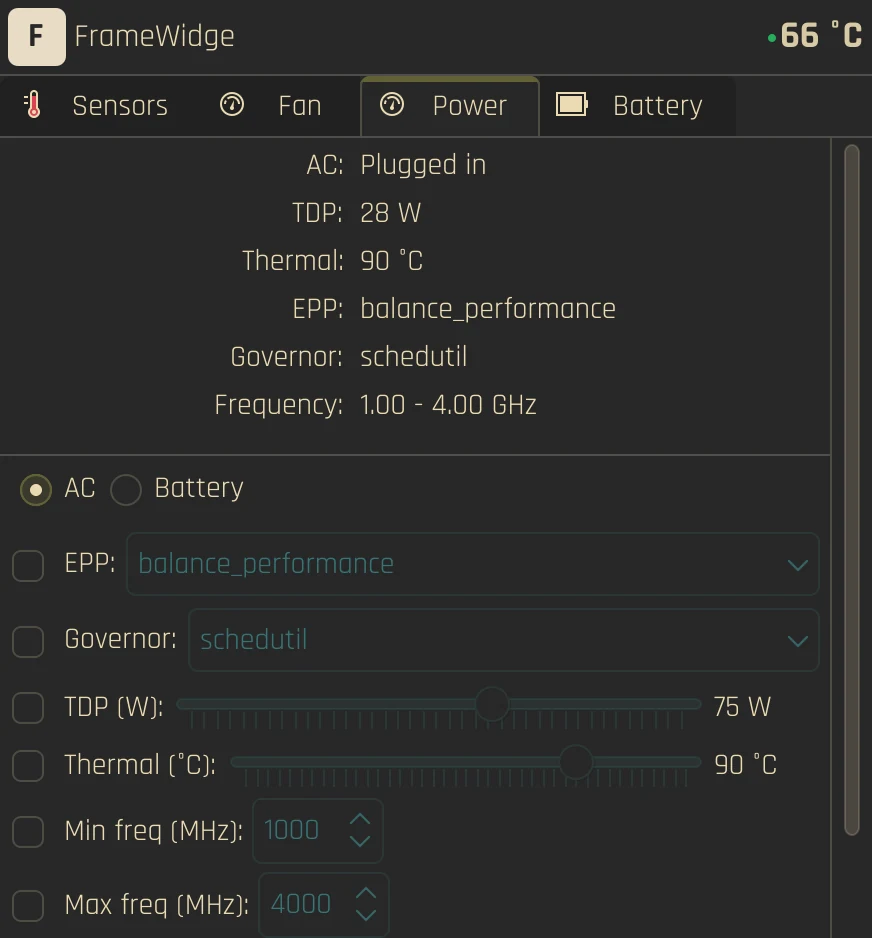
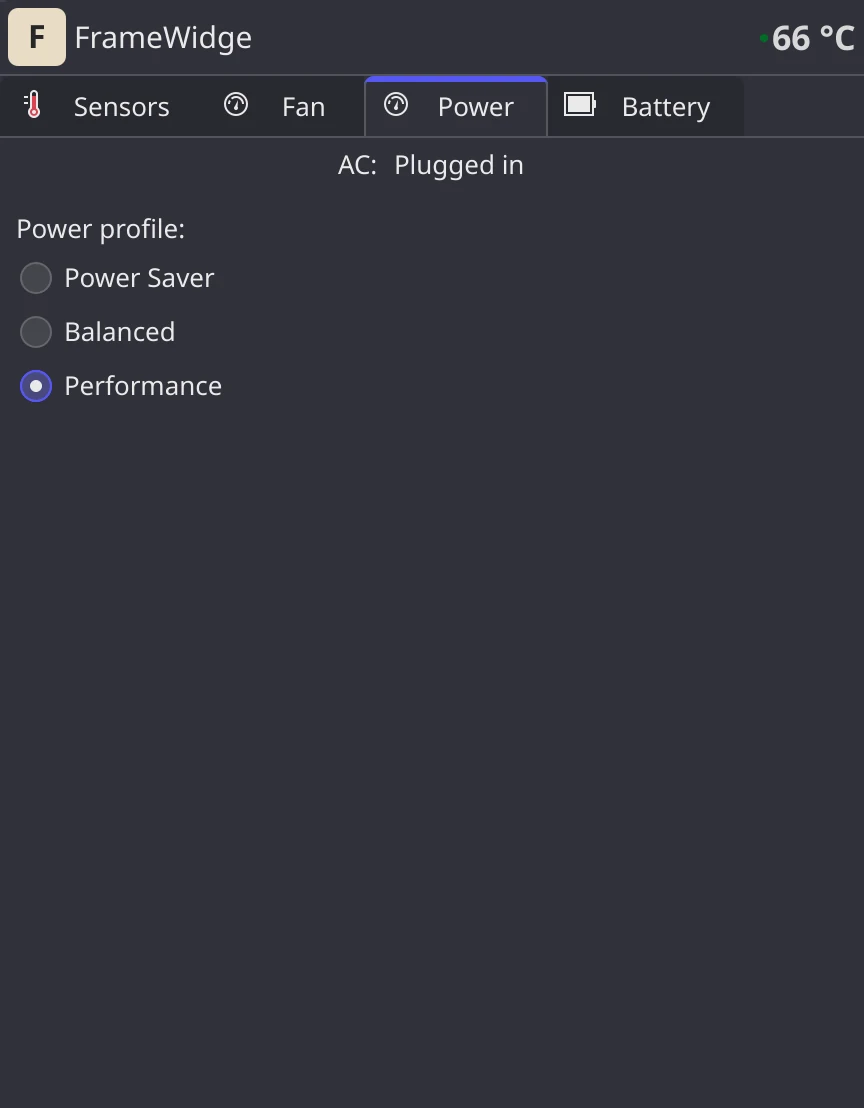
Release 1.3
- Version 1.3 in metadata.json (the service is 1.3.0 already),
  CHANGELOG section 1.3, landing page footer and download link
  (latest release instead of 1.0).
- Screenshots of the release (the Power tab changed).
- The release workflow builds the widget package too, with
  scripts/package.sh: it stops on a version that does not match the
  tag and on demo code in the package. Until 1.2 the .plasmoid was
  attached by hand; artifacts come from GitHub Actions only. Release
  notes are the tag's CHANGELOG section.

diff --git a/docs/index.html b/docs/index.html
@@ -43,7 +43,7 @@
     <div class="install-card">
       <label><span lang="en">Install with one command</span><span lang="de">Installation mit einem Befehl</span></label><div class="cmd-row"><div class="cmd-box">curl -fsSL https://raw.githubusercontent.com/shrippen/FrameWidge/main/install.sh | bash</div><button class="copy-btn" type="button" title="Copy" aria-label="Copy"><svg viewBox="0 0 24 24" width="18" height="18" fill="none" stroke="currentColor" stroke-width="2" stroke-linecap="round" stroke-linejoin="round"><rect x="9" y="9" width="13" height="13" rx="2"/><path d="M5 15H4a2 2 0 01-2-2V4a2 2 0 012-2h9a2 2 0 012 2v1"/></svg></button></div>
       <p class="install-note" lang="en">Installs the FrameWidge service <code>framewidged</code> (requires <code>sudo</code>) and the Plasma widget via <code>kpackagetool6</code>. Then add <strong>FrameWidge</strong> from the widget picker.</p><p class="install-note" lang="de">Installiert den FrameWidge-Dienst <code>framewidged</code> (braucht <code>sudo</code>) und das Plasma-Widget per <code>kpackagetool6</code>. Danach <strong>FrameWidge</strong> im Widget-Auswahldialog hinzufügen.</p>
-      <div class="install-links"><a class="btn btn-primary" href="https://github.com/shrippen/FrameWidge/releases/tag/1.0">Download</a><a class="btn btn-ghost" href="https://github.com/shrippen/FrameWidge">GitHub</a><a class="btn btn-ghost" href="https://github.com/ozturkkl/framework-control"><span lang="en">Original Project</span><span lang="de">Originalprojekt</span></a></div>
+      <div class="install-links"><a class="btn btn-primary" href="https://github.com/shrippen/FrameWidge/releases/latest">Download</a><a class="btn btn-ghost" href="https://github.com/shrippen/FrameWidge">GitHub</a><a class="btn btn-ghost" href="https://github.com/ozturkkl/framework-control"><span lang="en">Original Project</span><span lang="de">Originalprojekt</span></a></div>
     </div>
     <div class="hero-shot"><img lang="en" src="shots/fan-en.webp" alt="FrameWidge Fan tab with the fan curve editor"><img lang="de" src="shots/fan-de.webp" alt="FrameWidge Fan tab with the fan curve editor"></div>
   </div>
@@ -126,7 +126,7 @@ kpackagetool6 -t Plasma/Applet -r org.kde.plasma.framewidge</div></section>
       <div><h4><span lang="en">Source</span><span lang="de">Quelltext</span></h4><a href="https://github.com/shrippen/FrameWidge">GitHub</a><a href="https://github.com/shrippen/FrameWidge/issues">Issues</a><a href="https://github.com/shrippen/FrameWidge/releases">Releases</a><a href="https://github.com/ozturkkl/framework-control"><span lang="en">Original project</span><span lang="de">Originalprojekt</span></a></div>
     </nav>
   </div>
-  <div class="foot-meta"><p>MIT · shrippen · v1.2 · <span lang="en">based on <a href="https://github.com/ozturkkl/framework-control">framework-control</a></span><span lang="de">basiert auf <a href="https://github.com/ozturkkl/framework-control">framework-control</a></span></p></div>
+  <div class="foot-meta"><p>MIT · shrippen · v1.3 · <span lang="en">based on <a href="https://github.com/ozturkkl/framework-control">framework-control</a></span><span lang="de">basiert auf <a href="https://github.com/ozturkkl/framework-control">framework-control</a></span></p></div>
 </footer>
 
 </body>

diff --git a/CHANGELOG.md b/CHANGELOG.md
@@ -1,6 +1,6 @@
 # Changelog
 
-## Unreleased
+## 1.3
 
 ### Changed
 
